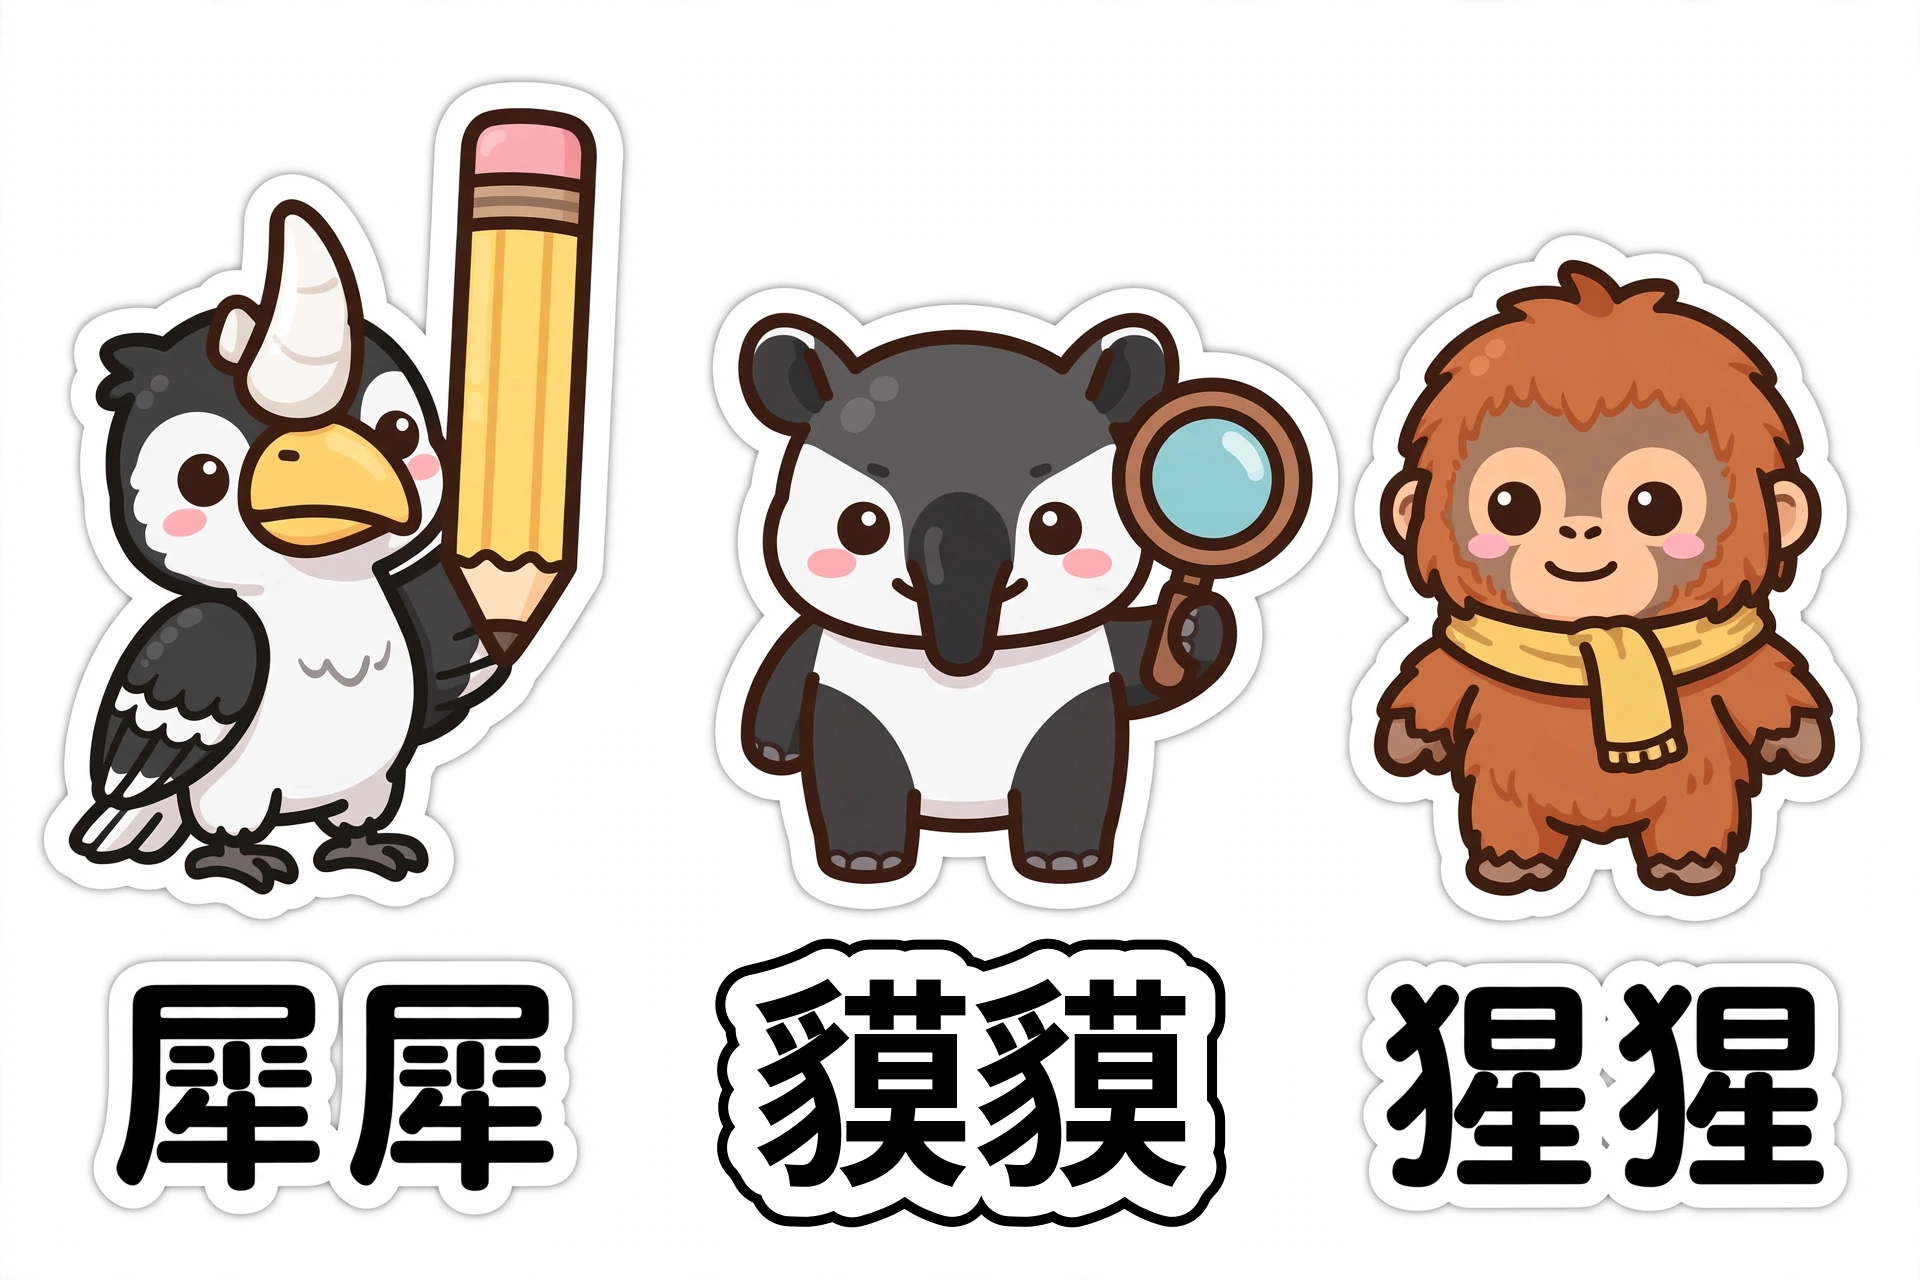
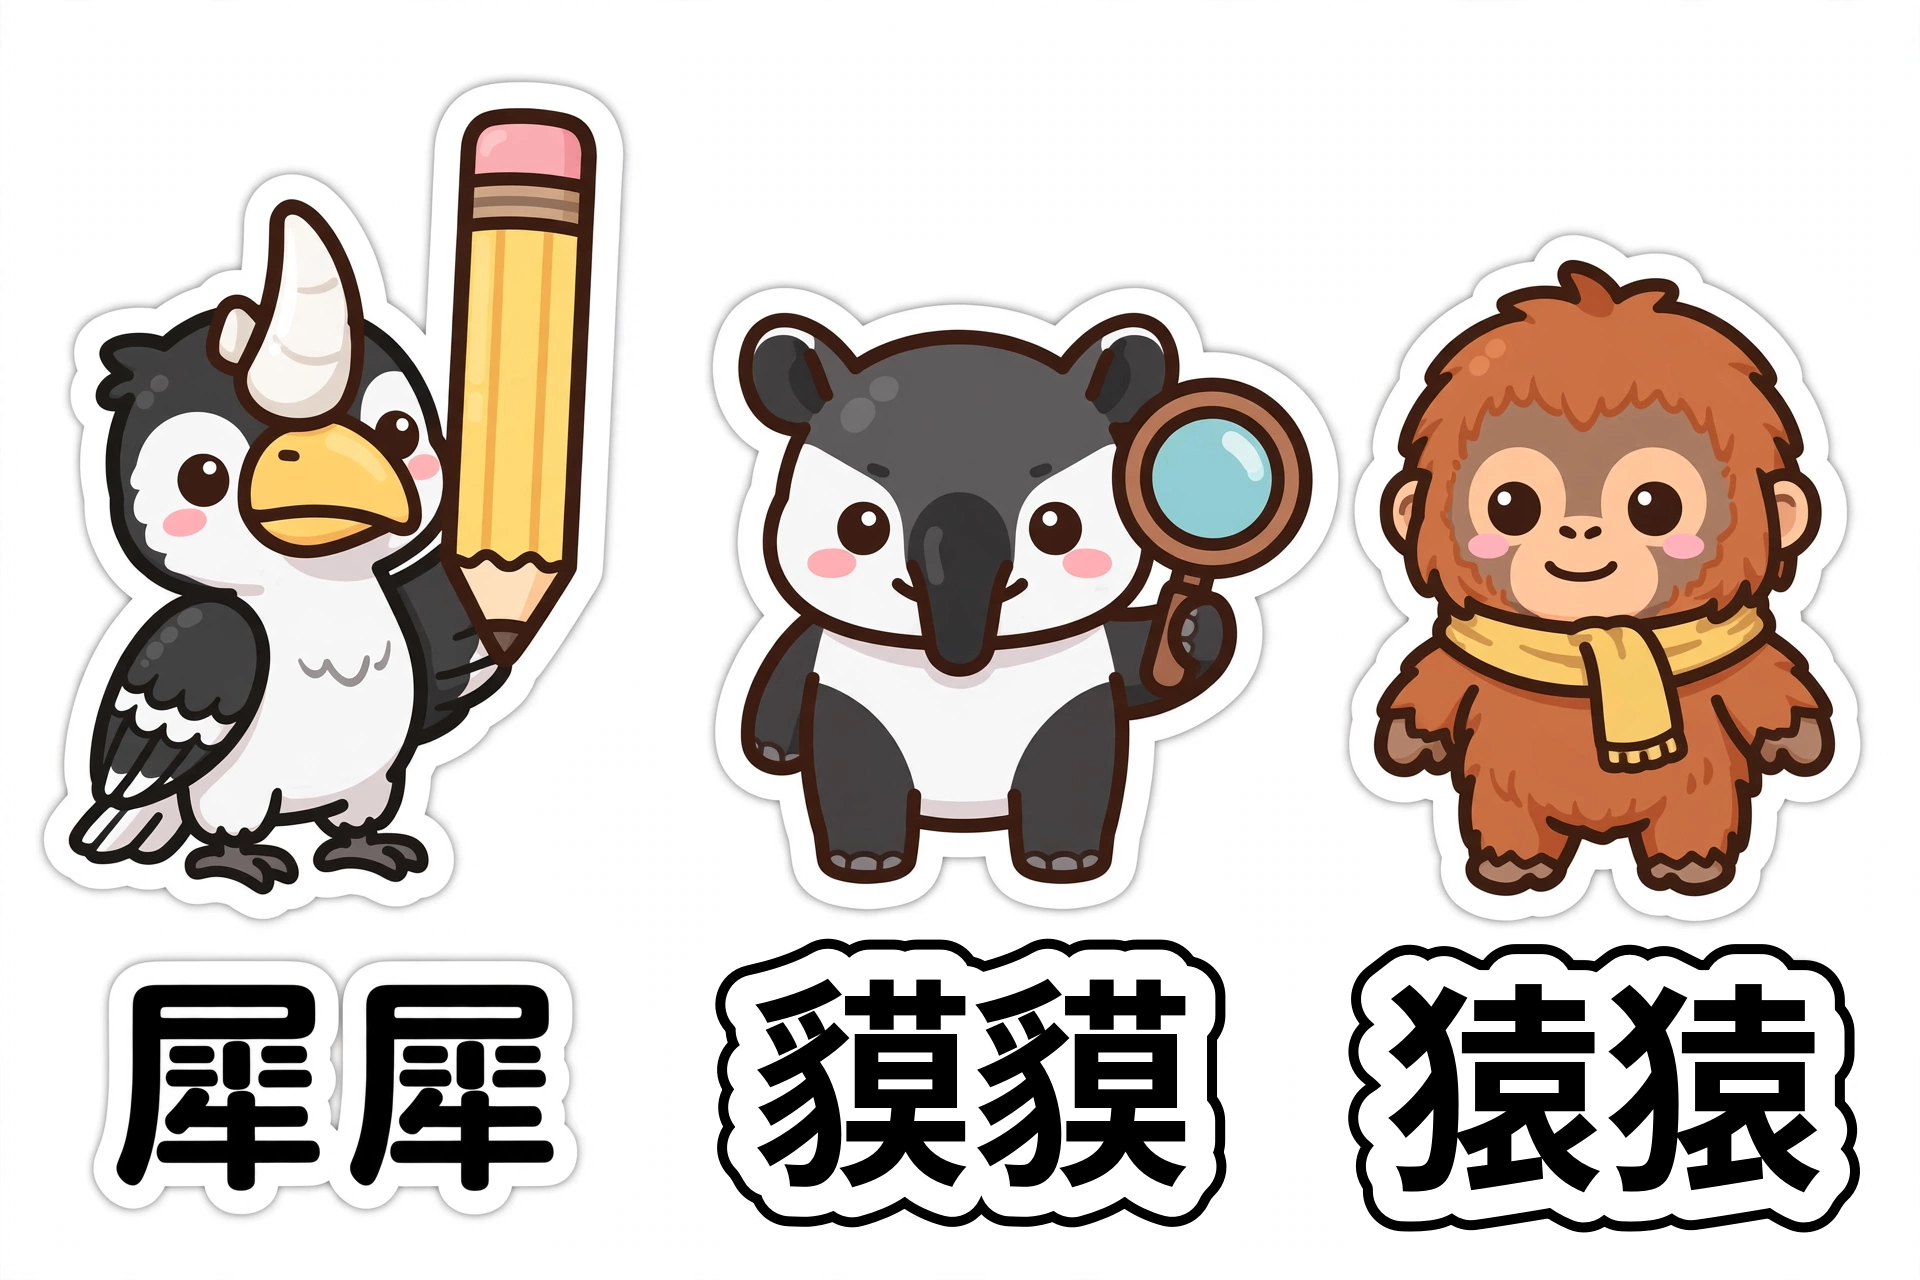
Malaysia orangutan renamed 猩猩 -> 猿猿 (editor's call); label repainted with Noto Sans CJK Bold

Changed region(s): [[0.6875, 0.7188, 0.9688, 0.9688]]

diff --git a/styles/CAST_GROUPS.md b/styles/CAST_GROUPS.md
@@ -63,7 +63,7 @@
 |---|---|---|
 | 犀犀 Xi Xi | 犀鸟（砂拉越代表鸟），白色大头盔状喙，黑白羽毛 | 宣布/相信——手持一支超大黄色铅笔 |
 | 貘貘 Mo Mo | 马来貘，黑白两色身体，圆耳朵，短鼻子 | 核查——手持放大镜 |
-| 猩猩 Xing Xing | 红毛猩猩，红棕长毛，系一条金黄色围巾 | 质疑——泼冷水、指漏洞 |
+| 猿猿 Yuan Yuan | 红毛猩猩，红棕长毛，系一条金黄色围巾 | 质疑——泼冷水、指漏洞 |
 
 ## 使用规则
 
